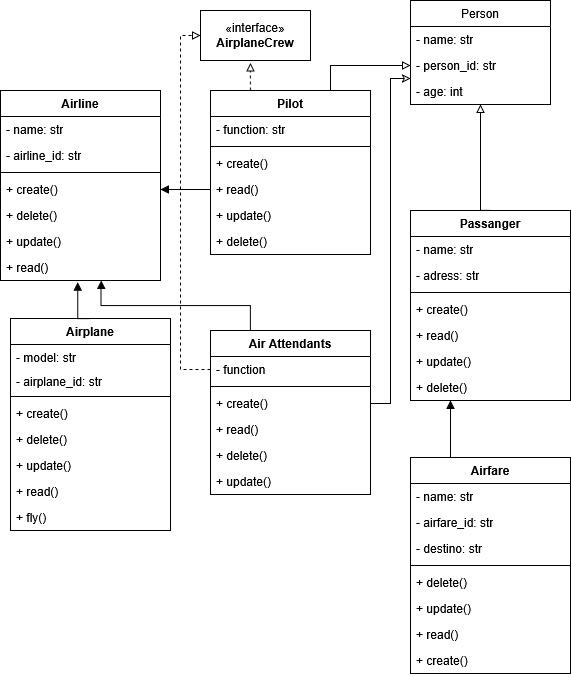
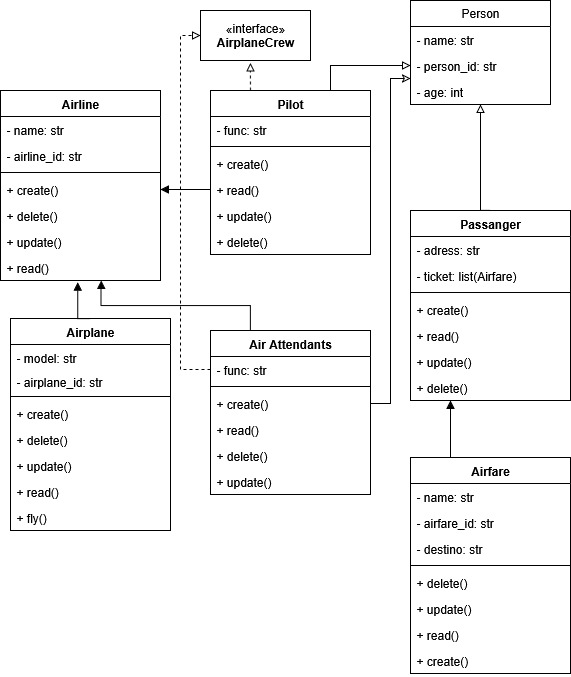
class diagram replied on code, little fixes on diagram

diff --git a/airfare.py b/airfare.py
@@ -1,8 +1,12 @@
+from faker import Faker
+fake = Faker()
+
+
 class Airfare:
-    def __init__(self, name: str, airfare_id, destino):
-        self.__name = name
-        self.__airfare_id = airfare_id
-        self.__destino = destino
+    def __init__(self):
+        self.__name = fake.name()
+        self.__airfare_id = fake.uuid4()[:4]
+        self.__destino = fake.country()
 
     @property
     def _name(self):
@@ -16,10 +20,6 @@ class Airfare:
     def _airfare_id(self):
         return self.__airfare_id
 
-    @_airfare_id.setter
-    def _airfare_id(self, value):
-        self.__airfare_id = value
-
     @property
     def _destino(self):
         return self.__destino
@@ -28,11 +28,11 @@ class Airfare:
     def _destino(self, value):
         self.__destino = value
 
-    
     def create():
-        pass
+        new_user = Airfare()
+        return (print(new_user))
 
-    def read():
+    def read(airfare_id):
         pass
 
     def update():
@@ -40,6 +40,11 @@ class Airfare:
 
     def delete():
         pass
-    
+
     def fly():
         pass
+
+
+new_airfare = Airfare()
+print(
+    f'Nova passagem gerada para {new_airfare._name}, com código {new_airfare._airfare_id} com destino a {new_airfare._destino}')

diff --git a/air_crew.py b/air_crew.py
@@ -1,0 +1,53 @@
+from person import Person
+
+
+class Pilot(Person):
+    def __init__(self, name: str, person_id: str, age: int, func: str):
+        super().__init__(name, person_id, age)
+        self.__func = func
+
+    @property
+    def _func(self):
+        return self.__func
+
+    @_func.setter
+    def _func(self, value):
+        self.__func = value
+
+    def create():
+        pass
+
+    def read():
+        pass
+
+    def update():
+        pass
+
+    def delete():
+        pass
+
+
+class AirAttendants(Person):
+    def __init__(self, name: str, person_id: str, age: int, func: str):
+        super().__init__(name, person_id, age)
+        self.__func = func
+
+    @property
+    def _func(self):
+        return self.__func
+
+    @_func.setter
+    def _func(self, value):
+        self.__func = value
+
+    def create():
+        pass
+
+    def read():
+        pass
+
+    def update():
+        pass
+
+    def delete():
+        pass

diff --git a/passanger.py b/passanger.py
@@ -1,0 +1,24 @@
+from person import Person
+
+
+class Passanger(Person):
+    def __init__(self, name: str, person_id: str, age: int, adress: str, ticket: list):
+        super().__init__(name, person_id, age)
+        self.__adress = adress
+        self.__ticket = list()
+
+    @property
+    def _adress(self):
+        return self.__adress
+
+    @_adress.setter
+    def _adress(self, value):
+        self.__adress = value
+
+    @property
+    def _ticket(self):
+        return self.__ticket
+
+    @_ticket.setter
+    def _ticket(self, value):
+        self.__ticket = value
